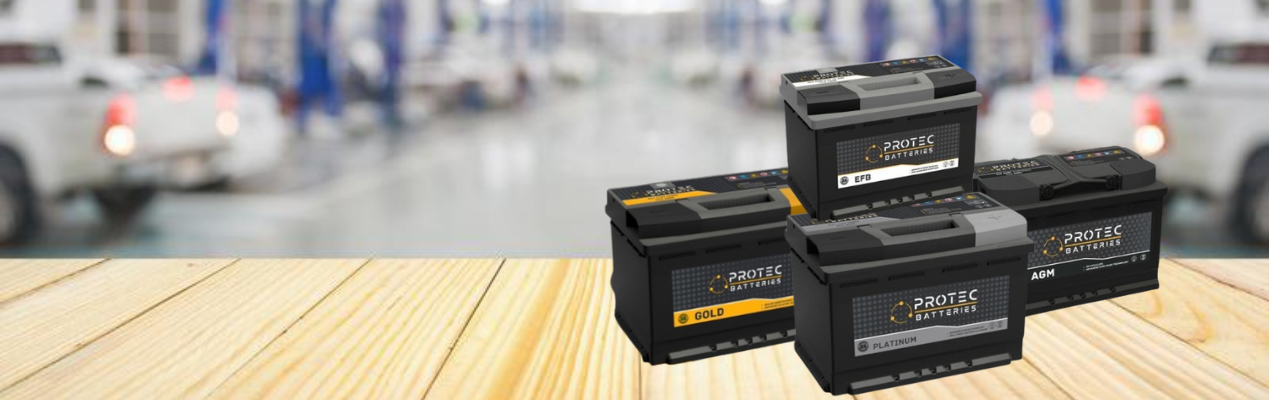
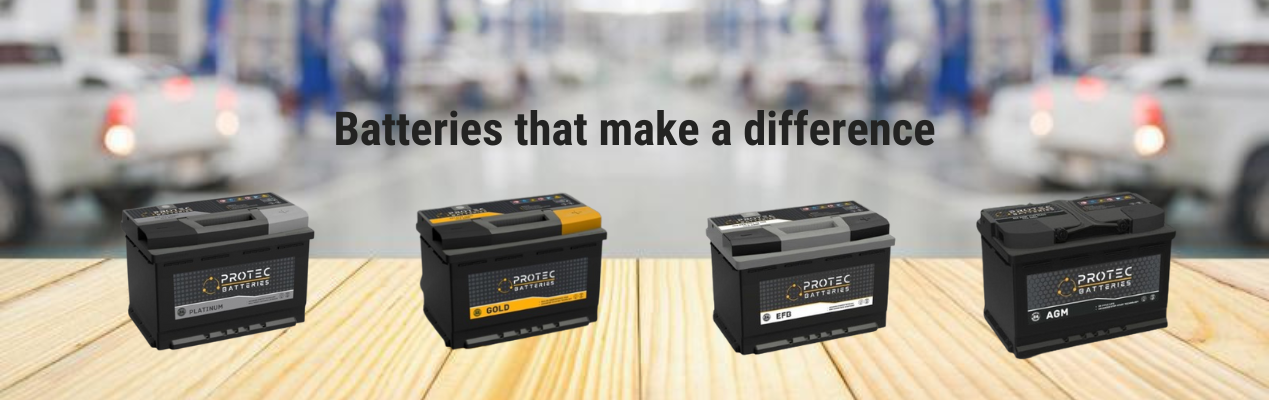
changed the carousel images

diff --git a/src/app/pages/home/home.component.html b/src/app/pages/home/home.component.html
@@ -5,12 +5,12 @@
       <button type="button" data-bs-target="#myCarousel" data-bs-slide-to="0" class="active" aria-current="true"
         aria-label="Slide 1"></button>
       <button type="button" data-bs-target="#myCarousel" data-bs-slide-to="1" aria-label="Slide 2"></button>
-      <button type="button" data-bs-target="#myCarousel" data-bs-slide-to="2" aria-label="Slide 3"></button>
+      <!-- <button type="button" data-bs-target="#myCarousel" data-bs-slide-to="2" aria-label="Slide 3"></button> -->
     </div>
 
     <div class="carousel-inner">
       <div class="carousel-item active">
-        <img class="carouselimg1" src="/cover2.png" alt="Battery Image">
+        <img class="carouselimg1" src="/cover1.png" alt="Battery Image">
         <div class="container">
           <div class="carousel-caption text-start">
           </div>
@@ -18,18 +18,18 @@
       </div>
 
       <div class="carousel-item">
-        <img src="/cover3.png" alt="Platinum Range Batteries">
+        <img src="/cover2.png" alt="Platinum Range Batteries">
         <div class="container">
         </div>
       </div>
 
-      <div class="carousel-item">
+      <!-- <div class="carousel-item">
         <img src="/cover1.png" alt="Reliable Power">
         <div class="container">
           <div class="carousel-caption text-end">
           </div>
         </div>
-      </div>
+      </div> -->
     </div>
 
     <button class="carousel-control-prev" type="button" data-bs-target="#myCarousel" data-bs-slide="prev">
@@ -247,7 +247,7 @@
             <p class="ms-1" style="font-size: 13px; color: grey">click to go to maps</p>
           </a>
         </div>
-        
+
         <div class="mb-1 d-flex align-items-center">
           <mat-icon class="me-2 mb-3">mail</mat-icon>
           <h5 class="mb-0">
